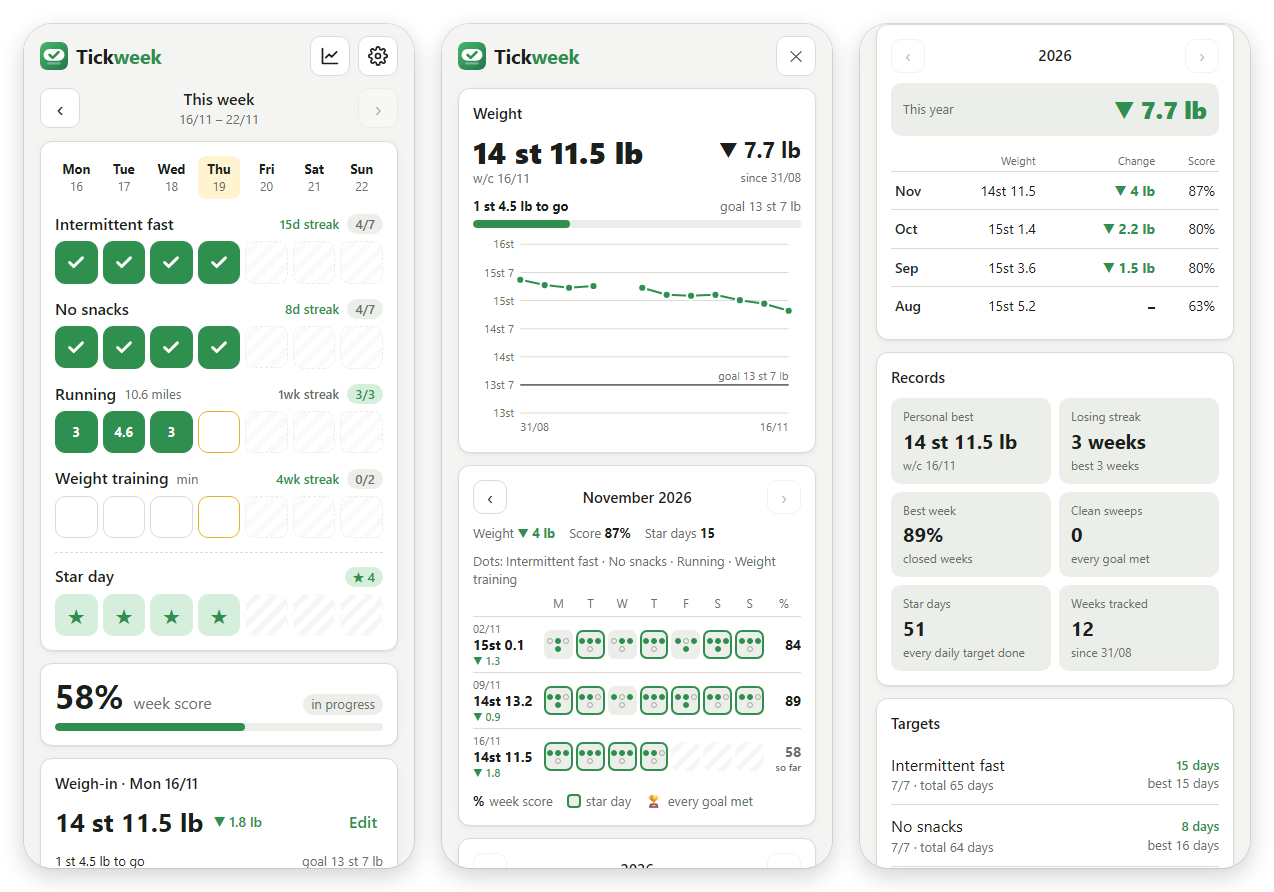
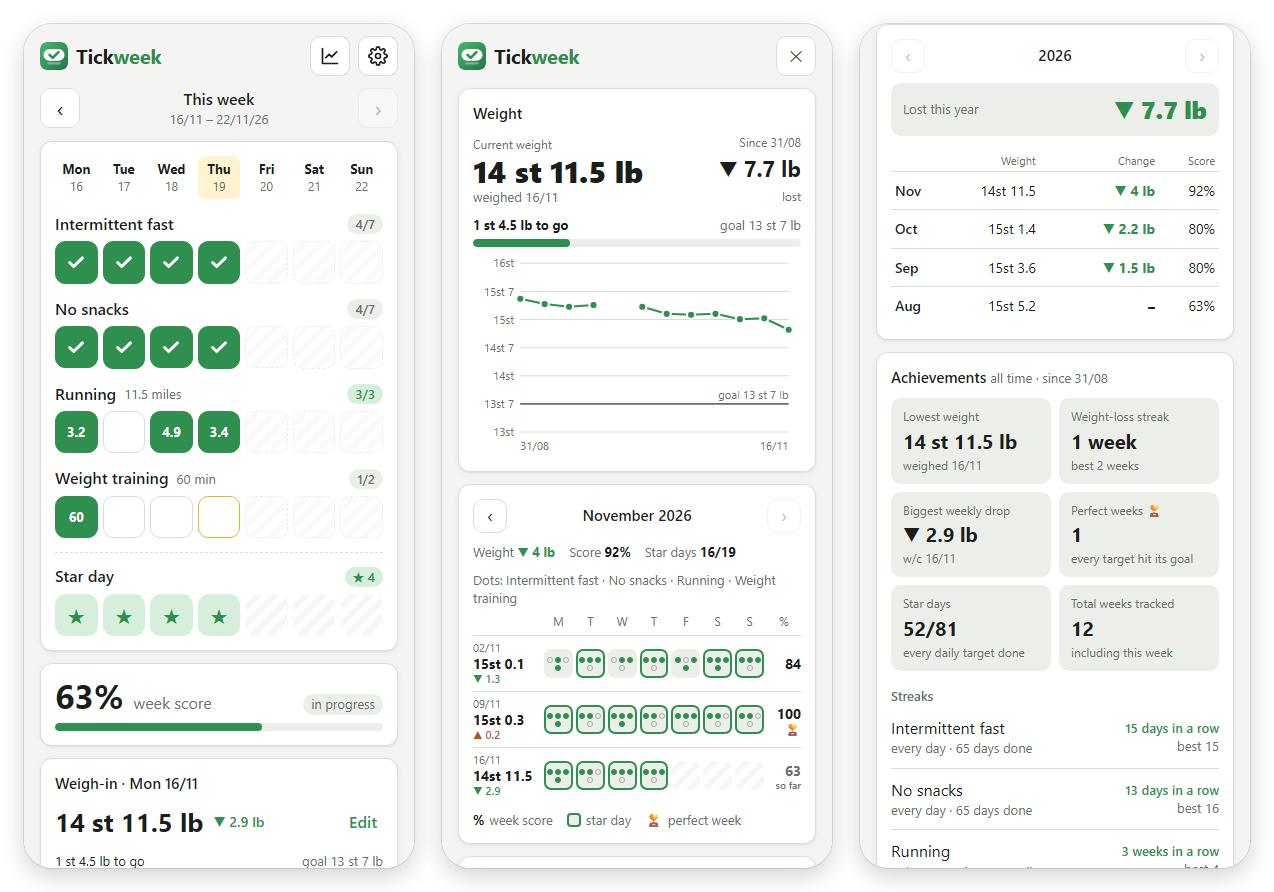
Plainer labels; streaks move to History > Achievements
- This week: streak labels removed from the table (read as day columns);
  weigh-in line says "Weight down N wks in a row - Lowest ...".
- History: weight hero labelled Current weight / Since dd/mm; "Lost this year";
  Records + Targets merged into Achievements (all time since dd/mm) with
  plain tiles: Lowest weight, Weight-loss streak, Biggest weekly drop,
  Perfect weeks, Star days x/y, Total weeks tracked; streak rows as sentences.
- Renames: losing streak -> weight-loss streak, personal best -> lowest
  weight, clean sweep -> perfect week (spec + README).
- Demo seed always includes one perfect week; screenshots re-rendered.

diff --git a/public/js/history.js b/public/js/history.js
@@ -28,14 +28,21 @@ function plural(n, word) { return `${n} ${word}${n === 1 ? '' : 's'}`; }
 function renderRecords() {
   const r = data.records;
   const twoWeighIns = data.weighIns.length >= 2;
+  // Biggest drop between consecutive weekly weigh-ins (a missed week isn't a "weekly" drop).
+  let drop = null;
+  data.weighIns.forEach((w, i) => {
+    const prev = data.weighIns[i - 1];
+    if (prev && addDays(prev.monday_date, 7) === w.monday_date && prev.kg - w.kg > (drop?.kg ?? 0.02)) drop = { kg: prev.kg - w.kg, monday: w.monday_date };
+  });
+  $('achperiod').textContent = r.weeksTracked ? `all time · since ${ddmm(data.weeks.at(-1).monday)}` : '';
   $('records').replaceChildren(
-    tile('Personal best', r.personalBest ? formatStLb(r.personalBest.kg) : null, r.personalBest ? `w/c ${ddmm(r.personalBest.monday)}` : 'no weigh-ins yet'),
-    tile('Losing streak', twoWeighIns ? plural(data.losing.current, 'week') : null,
+    tile('Lowest weight', r.personalBest ? formatStLb(r.personalBest.kg) : null, r.personalBest ? `weighed ${ddmm(r.personalBest.monday)}` : 'no weigh-ins yet'),
+    tile('Weight-loss streak', twoWeighIns ? plural(data.losing.current, 'week') : null,
       twoWeighIns ? `best ${plural(data.losing.longest, 'week')}` : 'needs 2 weigh-ins'),
-    tile('Best week', r.bestScore != null ? `${r.bestScore}%` : null, r.bestScore != null ? 'closed weeks' : 'after week 1'),
-    tile('Clean sweeps', String(r.cleanSweeps), 'every goal met'),
-    tile('Star days', String(r.fullDays), 'every daily target done'),
-    tile('Weeks tracked', String(r.weeksTracked), r.weeksTracked ? `since ${ddmm(data.weeks.at(-1).monday)}` : null),
+    tile('Biggest weekly drop', drop ? `▼ ${formatStLb(drop.kg)}` : null, drop ? `w/c ${ddmm(drop.monday)}` : 'needs 2 weigh-ins in a row'),
+    tile('Perfect weeks 🏆', String(r.cleanSweeps), 'every target hit its goal'),
+    tile('Star days', `${r.fullDays}/${starDayCount()}`, 'every daily target done'),
+    tile('Total weeks tracked', String(r.weeksTracked), r.weeksTracked ? 'including this week' : null),
   );
 }
 
@@ -44,15 +51,18 @@ function renderTargets() {
   const list = data.targets.filter((t) => !t.archived || t.daysDone > 0);
   $('targetstats').replaceChildren(...(list.length ? list.map((t) => {
     const u = t.streakUnit === 'days' ? 'day' : 'week';
-    const total = t.kind === 'number' ? `${fmtNum(t.total)} ${t.unit ?? ''} · ${plural(t.daysDone, 'day')}` : plural(t.daysDone, 'day');
+    const goal = t.goal_days === 7 ? 'every day' : `${t.goal_days} days a week`;
+    const done = t.kind === 'number' && t.total
+      ? `${fmtNum(t.total)} ${t.unit ?? ''}`.trim()
+      : `${plural(t.daysDone, 'day')} done`;
     return h('li', {},
       h('div', { class: 'info' },
         h('div', {}, t.name, t.archived ? h('span', { class: 'pill', style: 'margin-left:6px' }, 'retired') : null),
-        h('div', { class: 'meta' }, `${t.goal_days}/7 · total ${total}`)),
+        h('div', { class: 'meta' }, `${goal} · ${done}`)),
       h('div', { style: 'text-align:right' },
         t.streak.longest
-          ? [h('div', { class: 'streak' + (t.streak.current >= 2 ? ' on' : '') }, plural(t.streak.current, u)),
-             h('div', { class: 'meta small muted' }, `best ${plural(t.streak.longest, u)}`)]
+          ? [h('div', { class: 'streak' + (t.streak.current >= 2 ? ' on' : '') }, `${plural(t.streak.current, u)} in a row`),
+             h('div', { class: 'meta small muted' }, `best ${t.streak.longest}`)]
           : h('div', { class: 'meta small muted' }, 'no streak yet')),
     );
   }) : [h('li', { class: 'muted' }, 'No targets yet.')]));
@@ -85,7 +95,16 @@ function periodStats(inPeriod, startIso) {
   const closed = data.weeks.filter((w) => inPeriod(w.monday) && !w.current && w.score != null);
   const score = closed.length ? Math.round(closed.reduce((a, w) => a + w.score, 0) / closed.length) : null;
   const fullDays = data.weeks.flatMap((w) => w.fullDays).filter(inPeriod).length;
-  return { endKg: ws.at(-1)?.kg ?? null, change, score, fullDays };
+  const starDayOf = starDayCount(inPeriod);
+  return { endKg: ws.at(-1)?.kg ?? null, change, score, fullDays, starDayOf };
+}
+
+/** Days that could have been a star day: tracked weeks with a 7/7 target, up to today. */
+function starDayCount(inPeriod = () => true) {
+  return data.weeks
+    .filter((w) => w.targets.some((t) => t.goal_days === 7))
+    .flatMap((w) => w.days)
+    .filter((d) => d <= data.today && inPeriod(d)).length;
 }
 
 // ---------- weight hero ----------
@@ -96,11 +115,13 @@ function renderHero() {
   const lost = latest.kg - first.kg;
   const kids = [h('div', { class: 'hero' },
     h('div', {},
+      h('div', { class: 'hero-label' }, 'Current weight'),
       h('div', { class: 'hero-kg' }, formatStLb(latest.kg)),
-      h('div', { class: 'small muted' }, `w/c ${ddmm(latest.monday_date)}`)),
+      h('div', { class: 'small muted' }, `weighed ${ddmm(latest.monday_date)}`)),
     pts.length > 1 ? h('div', { class: `hero-lost ${deltaClass(lost)}` },
+      h('div', { class: 'hero-label' }, `Since ${ddmm(first.monday_date)}`),
       h('b', {}, kgDelta(lost)),
-      h('span', {}, `since ${ddmm(first.monday_date)}`)) : null,
+      h('span', {}, lost < 0 ? 'lost' : lost > 0 ? 'gained' : 'no change')) : null,
   )];
   if (data.goalKg != null) {
     const toGo = Math.max(0, latest.kg - data.goalKg);
@@ -134,7 +155,7 @@ function renderMonth() {
   const summary = h('div', { class: 'msum' },
     h('span', {}, 'Weight ', st.change != null ? h('b', { class: `delta ${deltaClass(st.change)}` }, kgDelta(st.change)) : h('b', {}, '–')),
     h('span', {}, 'Score ', h('b', {}, st.score != null ? `${st.score}%` : '–')),
-    h('span', {}, 'Star days ', h('b', {}, String(st.fullDays))));
+    h('span', {}, 'Star days ', h('b', {}, `${st.fullDays}/${st.starDayOf}`)));
   const dots = h('div', { class: 'small muted', style: 'margin-bottom:6px' },
     cur?.targets.length ? `Dots: ${cur.targets.map((t) => t.name).join(' · ')}` : '');
 
@@ -160,13 +181,13 @@ function renderMonth() {
       ...cells,
       h('div', { class: 'wscore' + (w.current ? ' live' : '') },
         w.score != null ? `${w.score}` : '–',
-        w.cleanSweep ? h('span', { class: 'sweep', title: 'Clean sweep: every goal met' }, '🏆') : w.current ? h('span', { class: 'sofar' }, 'so far') : null),
+        w.cleanSweep ? h('span', { class: 'sweep', title: 'Perfect week: every target hit its goal' }, '🏆') : w.current ? h('span', { class: 'sofar' }, 'so far') : null),
     );
   });
   const key = h('div', { class: 'small muted wkey' },
     h('span', {}, h('b', {}, '%'), ' week score'),
     h('span', {}, h('i', { class: 'wcell full' }), ' star day'),
-    h('span', {}, h('b', { class: 'sweep' }, '🏆'), ' every goal met'));
+    h('span', {}, h('b', { class: 'sweep' }, '🏆'), ' perfect week'));
 
   $('month').replaceChildren(summary, dots, ...(rows.length ? [head, ...rows, key] : [h('div', { class: 'muted small' }, 'Nothing tracked this month.')]));
 }
@@ -198,7 +219,7 @@ function renderYear() {
   const yr = String(year);
   const yst = periodStats((iso) => iso.startsWith(yr), `${yr}-01-01`);
   const top = h('div', { class: 'ytotal' },
-    h('div', { class: 'tl' }, 'This year'),
+    h('div', { class: 'tl' }, yst.change == null ? 'This year' : yst.change < -0.02 ? 'Lost this year' : yst.change > 0.02 ? 'Gained this year' : 'No change this year'),
     h('div', { class: `ybig delta ${yst.change != null ? deltaClass(yst.change) : ''}` }, yst.change != null ? kgDelta(yst.change) : '–'));
   const head = h('div', { class: 'yrow yhead' }, h('span', { class: 'ym' }, ''), h('span', { class: 'ykg' }, 'Weight'), h('span', { class: 'ych' }, 'Change'), h('span', { class: 'ysc' }, 'Score'));
   $('year').replaceChildren(top, ...(rows.length ? [head, ...rows] : [h('div', { class: 'muted small' }, 'Nothing tracked this year.')]));

diff --git a/public/js/week.js b/public/js/week.js
@@ -73,7 +73,7 @@ function renderScore() {
     h('div', { class: 'score' },
       h('span', { class: 'big' }, `${data.score}%`),
       h('span', { class: 'muted' }, 'week score'),
-      data.cleanSweep ? h('span', { class: 'badge', style: 'margin-left:auto' }, '🏆 Clean sweep') : data.current ? h('span', { class: 'pill', style: 'margin-left:auto' }, 'in progress') : null,
+      data.cleanSweep ? h('span', { class: 'badge', style: 'margin-left:auto' }, '🏆 Perfect week') : data.current ? h('span', { class: 'pill', style: 'margin-left:auto' }, 'in progress') : null,
     ),
     h('div', { class: 'bar' }, h('i', { style: `width:${data.score}%` })),
   );
@@ -110,9 +110,8 @@ function renderWeigh() {
   if (goal) kids.push(goal);
   if (data.personalBest && (data.prevWeighIn || data.losing.longest)) { // nothing to say until a second weigh-in
     kids.push(h('div', { class: 'wstats' },
-      h('span', {}, 'Losing streak ', h('b', {}, `${data.losing.current} wk${data.losing.current === 1 ? '' : 's'}`)),
-      h('span', {}, 'Best ', h('b', {}, `${data.losing.longest} wk${data.losing.longest === 1 ? '' : 's'}`)),
-      h('span', {}, 'PB ', h('b', {}, formatStLb(data.personalBest.kg))),
+      h('span', {}, 'Weight down ', h('b', {}, `${data.losing.current} wk${data.losing.current === 1 ? '' : 's'}`), ' in a row'),
+      h('span', {}, 'Lowest ', h('b', {}, formatStLb(data.personalBest.kg))),
     ));
   }
   card.replaceChildren(...kids);
@@ -184,10 +183,7 @@ function renderGrid() {
       h('div', { class: 'name' },
         t.name,
         t.kind === 'number' ? h('span', { class: 'unit' }, weekTotal(t) ? `${fmtNum(weekTotal(t))} ${t.unit ?? ''}` : t.unit ?? '') : null,
-        h('span', { style: 'margin-left:auto', class: 'row' },
-          data.current && t.streak > 0 ? h('span', { class: 'streak' + (t.streak >= 2 ? ' on' : ''), title: `Current streak: ${t.streak} ${t.streakUnit}` },
-            `${t.streak}${t.streakUnit === 'days' ? 'd' : 'wk'} streak`) : null,
-          h('span', { class: 'pill' + (met ? ' met' : '') }, `${t.done}/${t.goal_days}`)),
+        h('span', { style: 'margin-left:auto', class: 'pill' + (met ? ' met' : '') }, `${t.done}/${t.goal_days}`),
       ),
       h('div', { class: 'grid' }, data.days.map((d) => cell(t, d))),
     );

diff --git a/scripts/demo-seed.js b/scripts/demo-seed.js
@@ -27,10 +27,14 @@ db.transaction(() => {
     repo.ensureWeek(monday);
     const targets = repo.weekTargets(monday);
     const skill = 0.6 + 0.35 * ((WEEKS - w) / WEEKS); // gets better over time
-    for (const date of weekDates(monday).filter((d) => d <= today)) {
+    const perfect = w === 1; // last week: every goal met, so the demo shows a clean sweep 🏆
+    const spread = [0, 2, 4, 6, 1, 3, 5]; // which weekdays an N/7 target lands on in the perfect week
+    for (const [i, date] of weekDates(monday).entries()) {
+      if (date > today) break;
       for (const t of targets) {
         const p = t.goal_days === 7 ? skill : (t.goal_days / 7) * (0.8 + skill * 0.5);
-        if (rand() < p) repo.setEntry(date, t.id, t.kind === 'tick' ? 1 : t.unit === 'miles' ? Math.round((2 + rand() * 3) * 10) / 10 : 30 + Math.round(rand() * 4) * 10);
+        const roll = rand();
+        if (perfect ? spread.slice(0, t.goal_days).includes(i) : roll < p) repo.setEntry(date, t.id, t.kind === 'tick' ? 1 : t.unit === 'miles' ? Math.round((2 + rand() * 3) * 10) / 10 : 30 + Math.round(rand() * 4) * 10);
       }
     }
     if (w === 7) continue; // a missed weigh-in, to show the gap

diff --git a/public/style.css b/public/style.css
@@ -189,6 +189,8 @@ dialog.pad::backdrop { background: rgba(0,0,0,.45); }
 .hero { display: flex; align-items: flex-end; gap: 12px; margin-bottom: 4px; }
 .hero-kg { font-size: 30px; font-weight: 800; line-height: 1.1; font-variant-numeric: tabular-nums; }
 .hero-lost { margin-left: auto; text-align: right; }
+.hero-label { font-size: 12px; color: var(--muted); margin-bottom: 2px; }
+.subhead { font-size: 13px; font-weight: 600; color: var(--muted); margin: 16px 0 2px; }
 .hero-lost b { display: block; font-size: 22px; font-variant-numeric: tabular-nums; }
 .hero-lost span { font-size: 12px; color: var(--muted); }
 .delta.same { color: var(--muted); }

diff --git a/public/history.html b/public/history.html
@@ -45,13 +45,10 @@
     <div id="year"></div>
   </section>
 
-  <section class="card">
-    <h2>Records</h2>
+  <section class="card" id="achievements">
+    <h2>Achievements <span class="muted small" id="achperiod" style="font-weight:400"></span></h2>
     <div class="tiles" id="records"></div>
-  </section>
-
-  <section class="card">
-    <h2>Targets</h2>
+    <h3 class="subhead">Streaks</h3>
     <ul class="tlist" id="targetstats"></ul>
   </section>
 </main>

diff --git a/docs/design.md b/docs/design.md
@@ -42,7 +42,7 @@ Defaults: weeks start Monday, dates shown dd/mm, timezone Europe/London (`TZ` en
 
 - **Strictly weekly, on Monday.** The point is that Monday's scales judge the weekend.
 - A forgotten weigh-in can still be entered later that week. It counts as that week's weigh-in, flagged **late**.
-- A week with **no** weigh-in breaks the losing streak.
+- A week with **no** weigh-in breaks the weight-loss streak.
 - Shown as **stone/lb** (e.g. 14 st 3.4 lb), stored in **kg** (so a display switch is possible later).
 - **Goal weight** with a progress bar ("1 st 2 lb to go").
 
@@ -51,11 +51,11 @@ Defaults: weeks start Monday, dates shown dd/mm, timezone Europe/London (`TZ` en
 | Term | Rule |
 |---|---|
 | **Week score %** | Σ min(days done, goal) ÷ Σ goals, over that week's targets. Going over a goal doesn't add points |
-| **Clean sweep** 🏆 | Every target reached its N/7 goal that week |
+| **Perfect week** 🏆 | Every target reached its N/7 goal that week (was "clean sweep") |
 | **Star day** ★ | Every 7/7 target ticked on that day (was "full day") |
 | **Target streak** | 7/7 targets: consecutive days done. N/7 targets: consecutive weeks where the goal was met |
-| **Losing streak** | Consecutive weekly weigh-ins, each lower than the one before. Same weight = neither extends nor breaks it; a missing week breaks it |
-| **Personal best** | Lowest weigh-in so far |
+| **Weight-loss streak** | Consecutive weekly weigh-ins, each lower than the one before. Same weight = neither extends nor breaks it; a missing week breaks it |
+| **Lowest weight** | Lowest weigh-in so far (all time) |
 
 The current week's score and streaks are "in progress" until the week closes.
 
@@ -63,14 +63,14 @@ The current week's score and streaks are "in progress" until the week closes.
 
 1. **This week** (main screen, phone-first): rows = targets, columns = Mon–Sun, big tap cells, today highlighted.
    Tick targets toggle on tap; number targets open a number pad (clear = 0 = not done). Shows the week score, the
-   N/7 progress per target, the weigh-in box on Monday, and the active streaks.
+   N/7 progress per target and the weigh-in box. (Streaks live on History under Achievements.)
    Order: the table first (with a Star day row at the bottom), then the week score, then the weigh-in.
 2. **History** (weight first): current weight, change since the first weigh-in and progress to goal, above the
    weight chart. Then **one month at a time** (‹ month › switcher): a one-line month summary (weight change, score,
    star days) and that month's weeks in the paper layout: one row per week (Monday date, weigh-in in bold + change),
-   each day's cell showing a mini dot per target (ringed = star day), the week score and a 🏆 for a clean sweep; tap a
-   week to open it. Then a **year summary** (per month: weight at month end, change, average score). Records and
-   per-target streaks/totals below. *(Revised 16 Nov 2026: month switcher instead of one long list of weeks.)*
+   each day's cell showing a mini dot per target (ringed = star day), the week score and a 🏆 for a perfect week; tap a
+   week to open it. Then a **year summary** (per month: weight at month end, change, average score). An
+   **Achievements** section (record tiles + each target's current/best streak and totals) below. *(Revised 16 Nov 2026: month switcher instead of one long list of weeks.)*
 3. **Settings**: targets (add/edit/reorder/retire, kind, unit, N/7), goal weight, and the corrections switch.
 
 ## Edit window

diff --git a/README.md b/README.md
@@ -5,8 +5,8 @@
 Tick the boxes, lose the weight.
 
 A small self-hosted health tracker: configurable daily targets (fasting, no snacks, exercise…) ticked on a weekly
-Mon–Sun grid, a Monday weigh-in, and a light game layer (week score, clean sweeps, streaks, losing streak, personal
-best). It replaces a printed spreadsheet.
+Mon–Sun grid, a Monday weigh-in, and a light game layer (week score, perfect weeks, streaks, weight-loss streak, lowest
+weight). It replaces a printed spreadsheet.
 
 <picture>
   <source media="(prefers-color-scheme: dark)" srcset="docs/screenshots/screens-dark.png">
@@ -41,7 +41,7 @@ Dev/demo only: `TICKWEEK_NOW` pins the clock (e.g. `2026-11-19T19:30:00Z`) for s
 | `src/app.js` | Express app + JSON API (`/api/week`, `/api/history`, `/api/entry`, `/api/weigh-in`, `/api/targets`, `/api/settings`), `/health` |
 | `src/db.js` | Schema, numbered migrations (`PRAGMA user_version`), queries, week snapshots |
 | `src/dates.js`, `src/weight.js`, `src/scoring.js` | Pure domain logic (`weight.js` is also served to the browser) |
-| `src/stats.js` | Game layer: streaks, losing streak, star days, records (computed, never stored); `/api/history` |
+| `src/stats.js` | Game layer: streaks, weight-loss streak, star days, records (computed, never stored); `/api/history` |
 | `public/` | Plain HTML/CSS/JS frontend: `index.html` (This week), `history.html`, `settings.html` |
 | `scripts/demo-seed.js` | Fills a separate demo DB with made-up data (refuses a DB that already has weigh-ins) |
 | `Dockerfile` | `node:24-slim`, data volume `/data`, port 3000, healthcheck on `/health` |

diff --git a/docs/changelogs/2026-11.md b/docs/changelogs/2026-11.md
@@ -1,5 +1,23 @@
 # Changelog: November 2026
 
+## 16 Nov 2026: streaks moved to History → Achievements
+
+- This week: streak labels removed from the target rows (they read as if they belonged to the day columns); the
+  table shows ticks and N/7 only.
+- History: Records + Targets merged into one **Achievements** card (record tiles, then "Streaks": each target's
+  current/best streak and totals). Weight hero labelled **Current weight** (weighed dd/mm) and **Since dd/mm**
+  (▼ x lost / ▲ x gained).
+- Year total labelled "Lost this year" / "Gained this year".
+- Plainer names: "Losing streak" → **Weight-loss streak** ("Weight down 3 wks in a row" on This week), "Personal
+  best" → **Lowest weight** (all time), "Best week" tile replaced by **Biggest weekly drop** (best week would just read
+  100% after the first clean sweep), "Clean sweep" → **Perfect week** 🏆 everywhere
+  and "weeks with every goal met".
+- Demo seed always includes one perfect week (last week) so screenshots show a clean sweep 🏆.
+- Star days shown out of the days tracked (month summary "Star days 15/19", tile "51/81"); Achievements heading says
+  the period ("all time · since 31/08").
+- Streak rows read as sentences: "every day · 65 days done → 15 days in a row · best 15"; "3 days a week · 155.7
+  miles → 3 weeks in a row". Tiles: "Total weeks tracked", "Star days 52/81".
+
 ## 16 Nov 2026: v0.2.0
 
 - Released **v0.2.0**: History redesign, This week polish (table first, Star day row, year in the week label),
